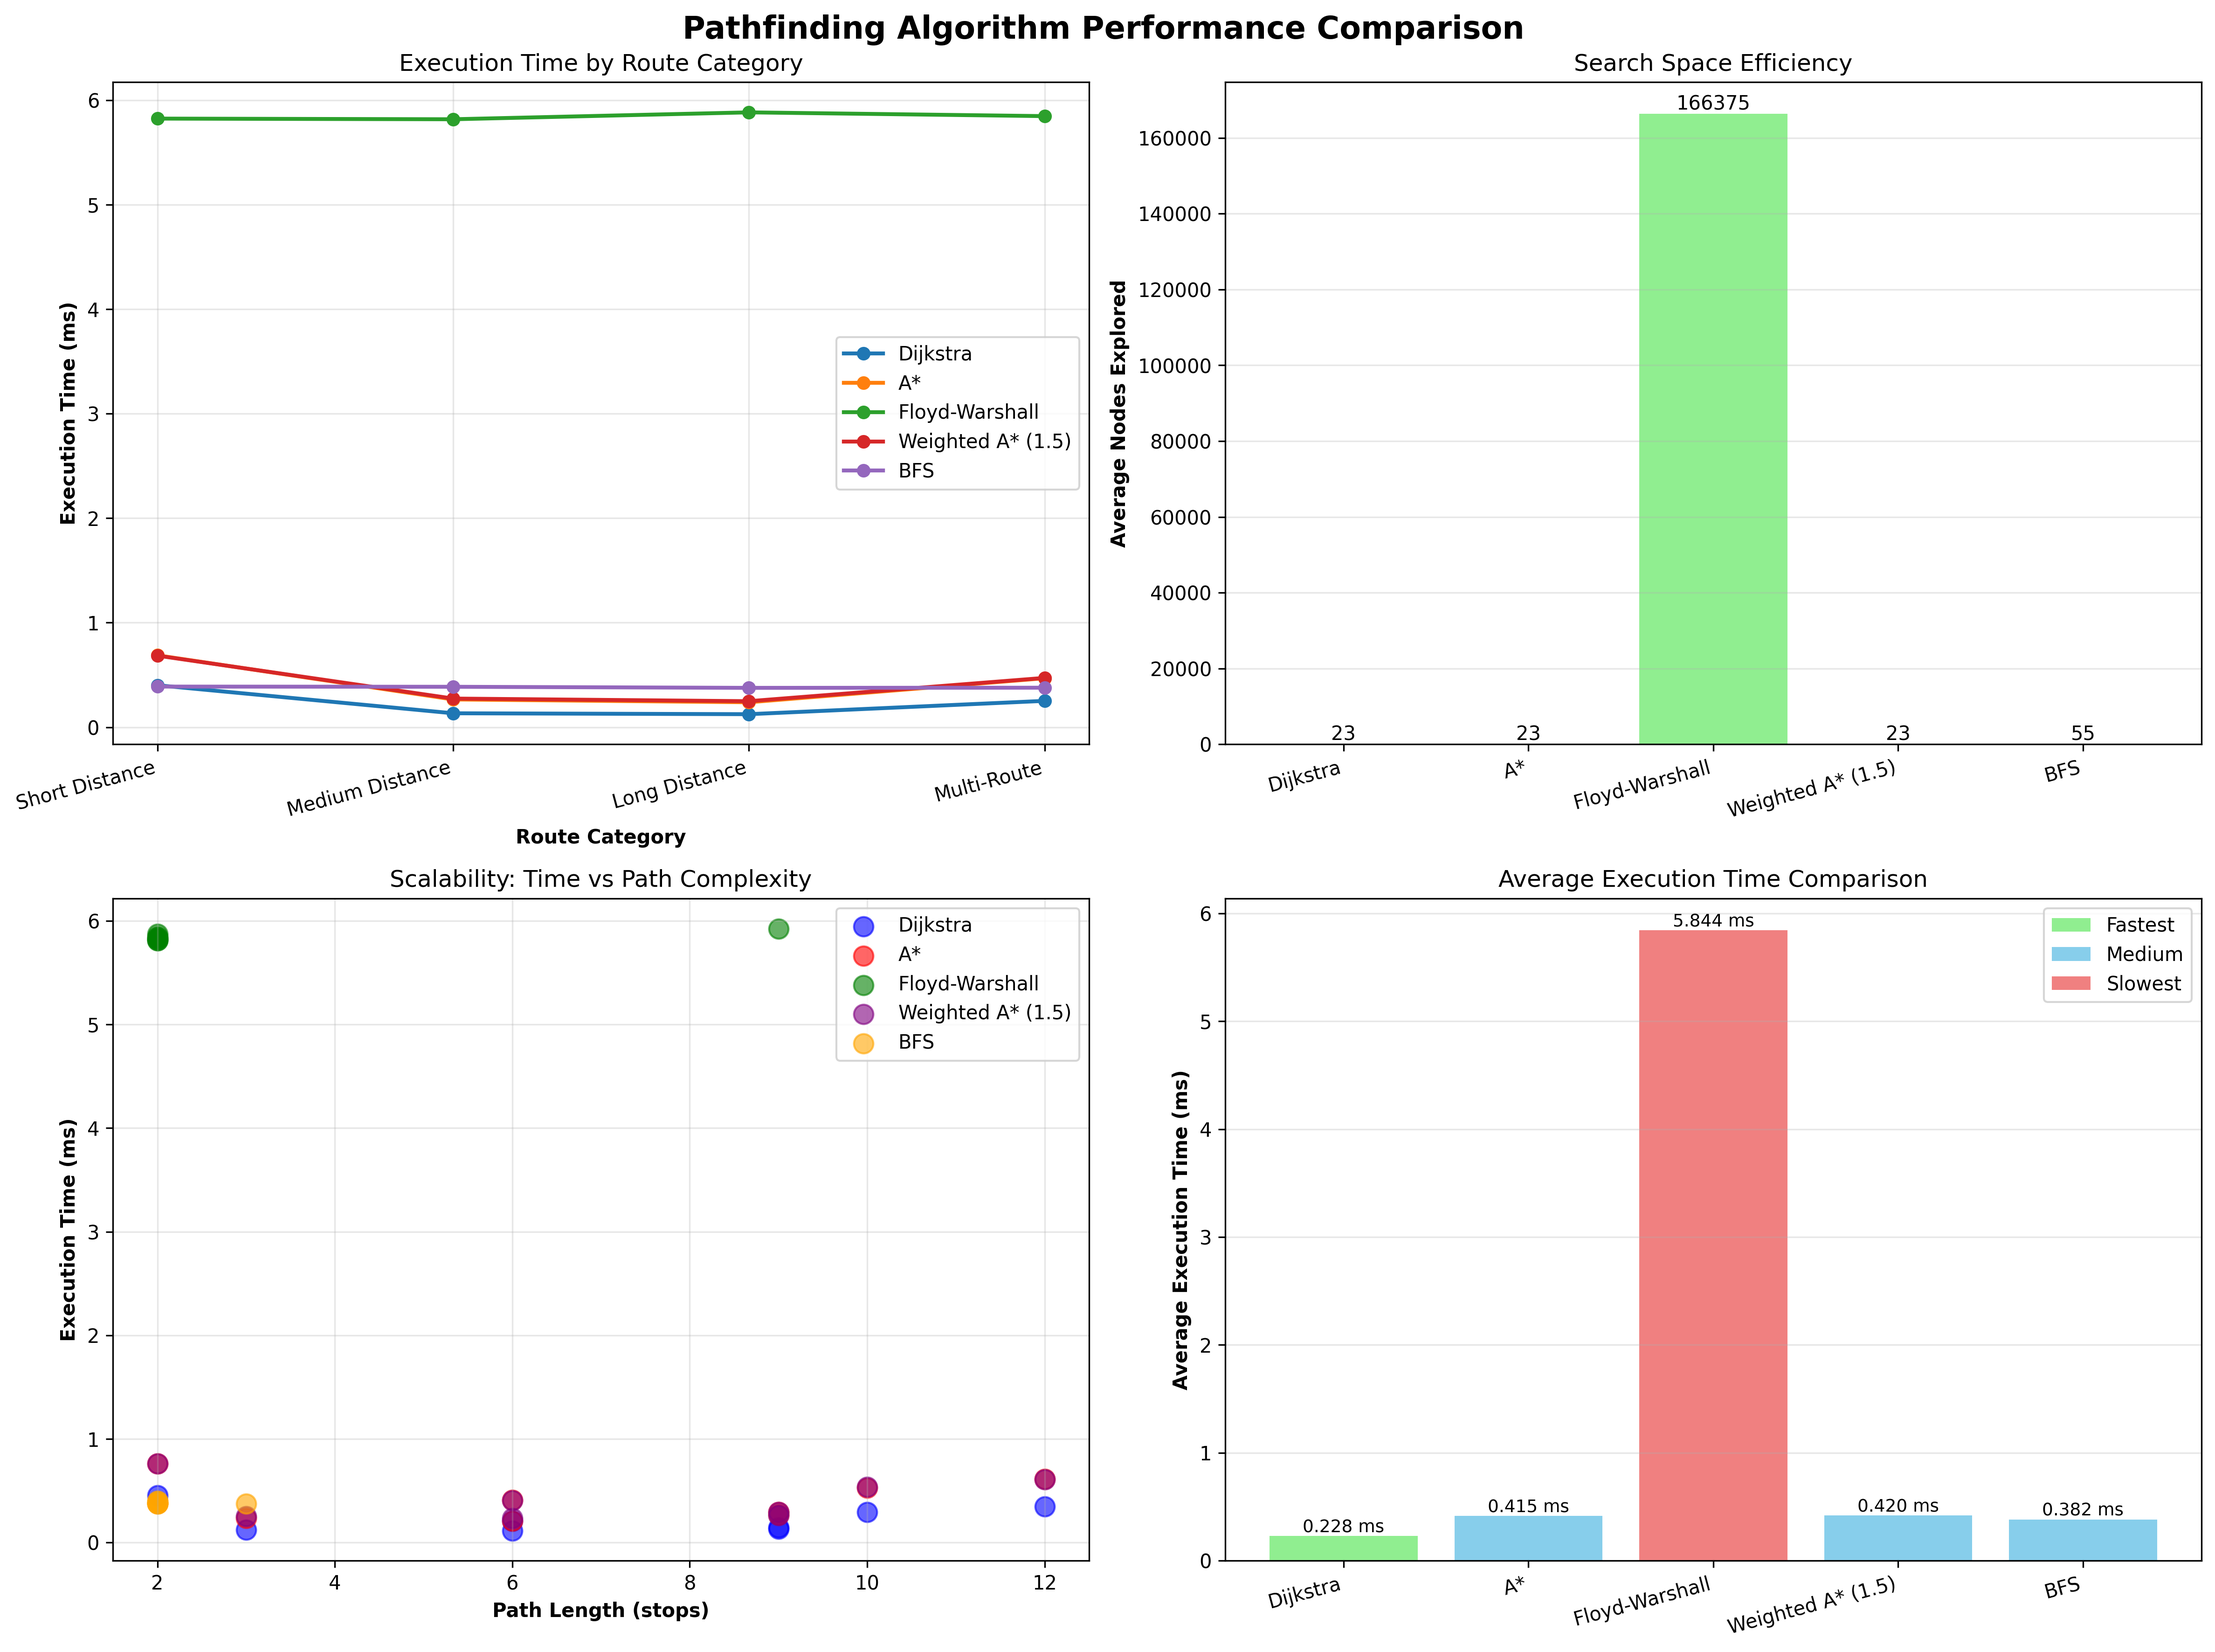
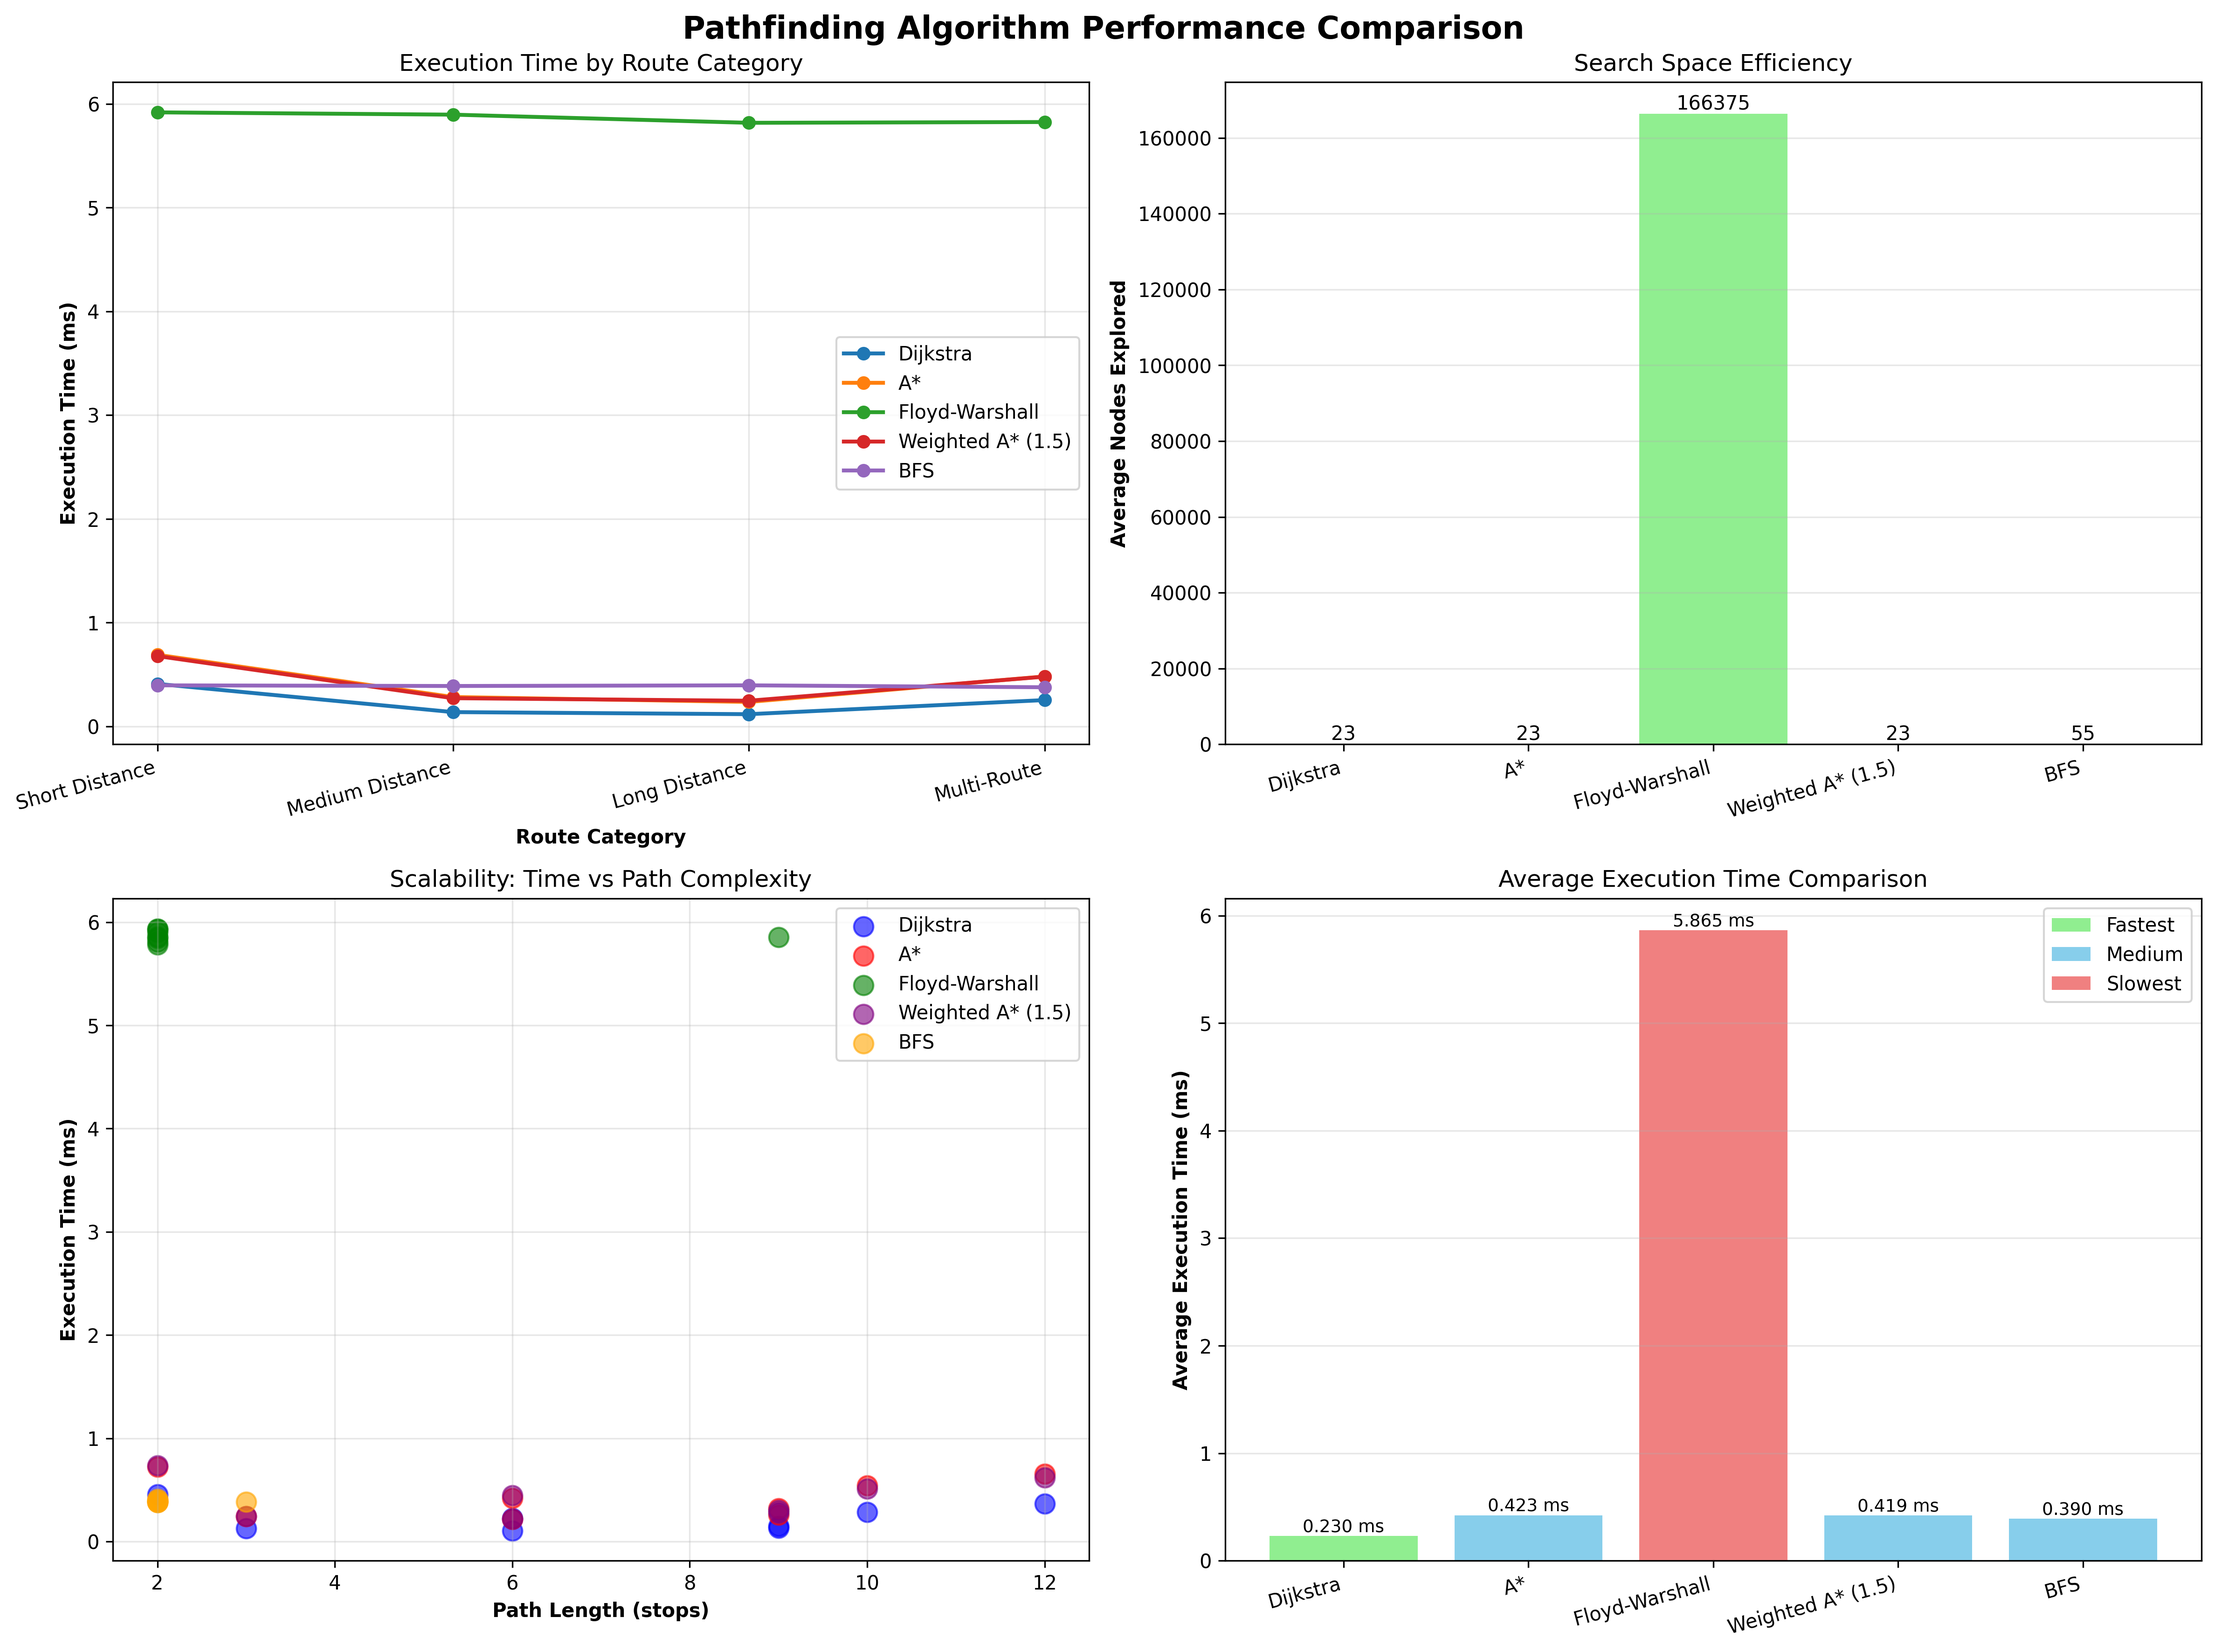
fixed bfs/dfs readme

Changed region(s): [[0.0935, 0.4036, 0.4673, 0.4347], [0.2804, 0.0621, 0.4673, 0.0931], [0.0623, 0.0621, 0.2181, 0.0931]]

diff --git a/performance_table.tex b/performance_table.tex
@@ -6,28 +6,28 @@
 \hline
 \textbf{Category} & \textbf{Algorithm} & \textbf{Time (ms)} & \textbf{Nodes} & \textbf{Path} \\
 \hline
-Short Distance & Dijkstra & 0.401 & 45 & 7.0 \\
- & A* & 0.688 & 45 & 7.0 \\
- & Floyd-Warshall & 5.825 & 166375 & 2.0 \\
- & Weighted A* (1.5) & 0.685 & 45 & 7.0 \\
- & BFS & 0.389 & 55 & 2.0 \\
+Short Distance & Dijkstra & 0.410 & 45 & 7.0 \\
+ & A* & 0.690 & 45 & 7.0 \\
+ & Floyd-Warshall & 5.919 & 166375 & 2.0 \\
+ & Weighted A* (1.5) & 0.678 & 45 & 7.0 \\
+ & BFS & 0.396 & 55 & 2.0 \\
 \hline
-Medium Distance & Dijkstra & 0.133 & 11 & 6.0 \\
- & A* & 0.265 & 11 & 6.0 \\
- & Floyd-Warshall & 5.819 & 166375 & 2.0 \\
- & Weighted A* (1.5) & 0.274 & 11 & 6.0 \\
- & BFS & 0.387 & 55 & 2.0 \\
+Medium Distance & Dijkstra & 0.138 & 11 & 6.0 \\
+ & A* & 0.283 & 11 & 6.0 \\
+ & Floyd-Warshall & 5.897 & 166375 & 2.0 \\
+ & Weighted A* (1.5) & 0.272 & 11 & 6.0 \\
+ & BFS & 0.390 & 55 & 2.0 \\
 \hline
-Long Distance & Dijkstra & 0.124 & 10 & 7.5 \\
- & A* & 0.238 & 10 & 7.5 \\
- & Floyd-Warshall & 5.885 & 166375 & 5.5 \\
- & Weighted A* (1.5) & 0.249 & 10 & 7.5 \\
- & BFS & 0.376 & 55 & 2.5 \\
+Long Distance & Dijkstra & 0.118 & 10 & 7.5 \\
+ & A* & 0.236 & 10 & 7.5 \\
+ & Floyd-Warshall & 5.818 & 166375 & 5.5 \\
+ & Weighted A* (1.5) & 0.248 & 10 & 7.5 \\
+ & BFS & 0.396 & 55 & 2.5 \\
 \hline
-Multi-Route & Dijkstra & 0.252 & 25 & 8.0 \\
- & A* & 0.468 & 25 & 8.0 \\
- & Floyd-Warshall & 5.849 & 166375 & 2.0 \\
- & Weighted A* (1.5) & 0.472 & 25 & 8.0 \\
+Multi-Route & Dijkstra & 0.254 & 25 & 8.0 \\
+ & A* & 0.482 & 25 & 8.0 \\
+ & Floyd-Warshall & 5.826 & 166375 & 2.0 \\
+ & Weighted A* (1.5) & 0.480 & 25 & 8.0 \\
  & BFS & 0.378 & 55 & 2.0 \\
 \hline
 \end{tabular}

diff --git a/README.md b/README.md
@@ -72,8 +72,8 @@ This generates:
 | `a_star.py` | A* search implementation |
 | `weighted_a_star.py` | Weighted A* implementation |
 | `floyd_warshall.py` | Floyd-Warshall implementation |
-| `BFS.py` | Dijkstra's algorithm implementation |
-| `DFS.py` | Dijkstra's algorithm implementation |
+| `BFS.py` | BFS implementation |
+| `DFS.py` | DFS implementation |
 
 ### Data & Graph Files
 | File | Purpose |
